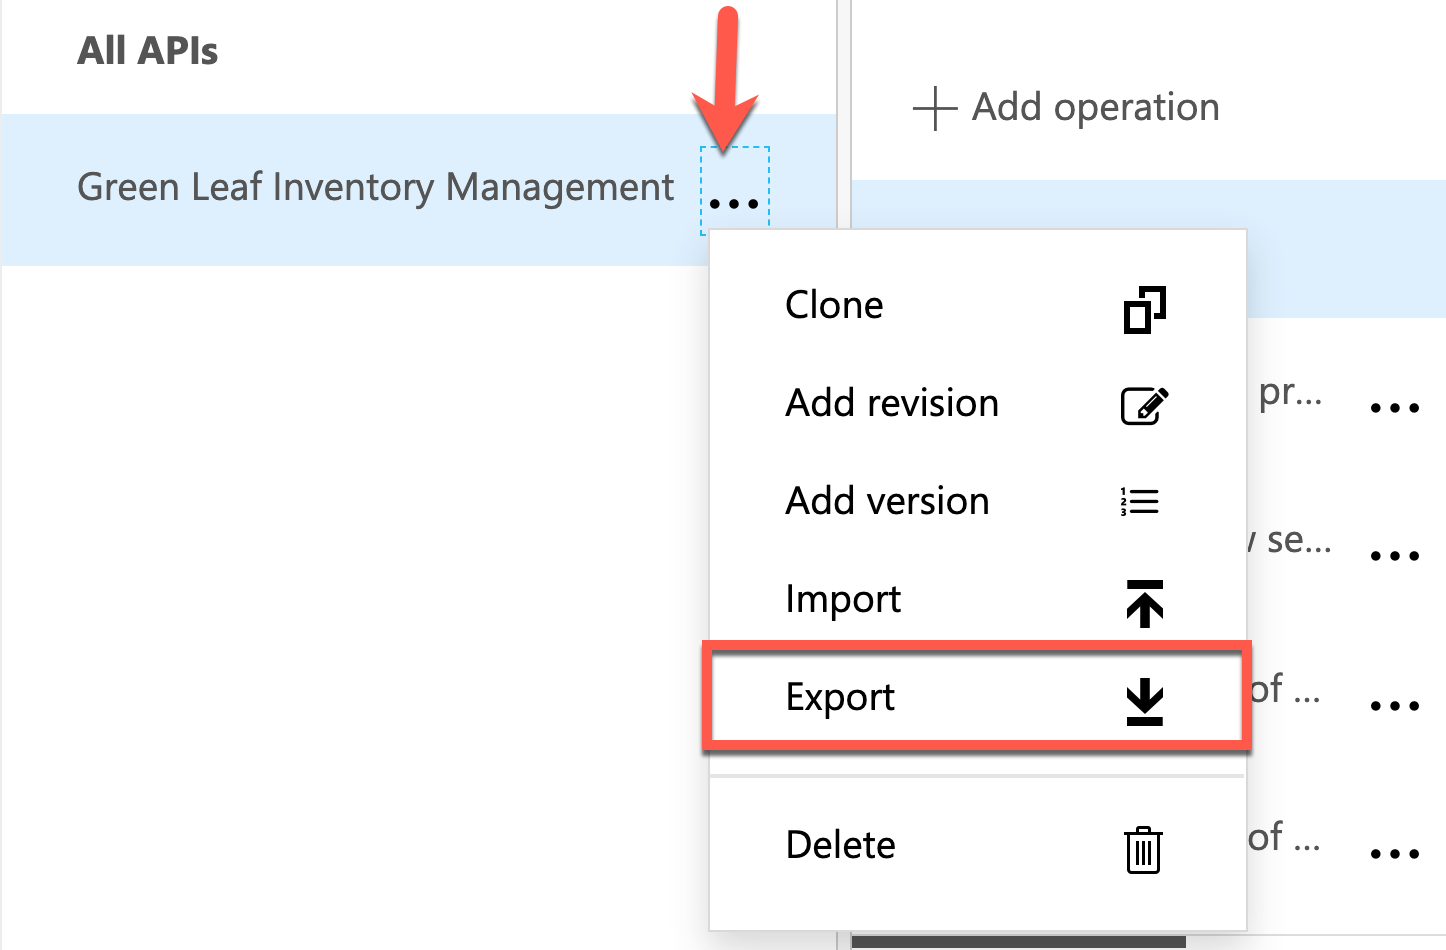
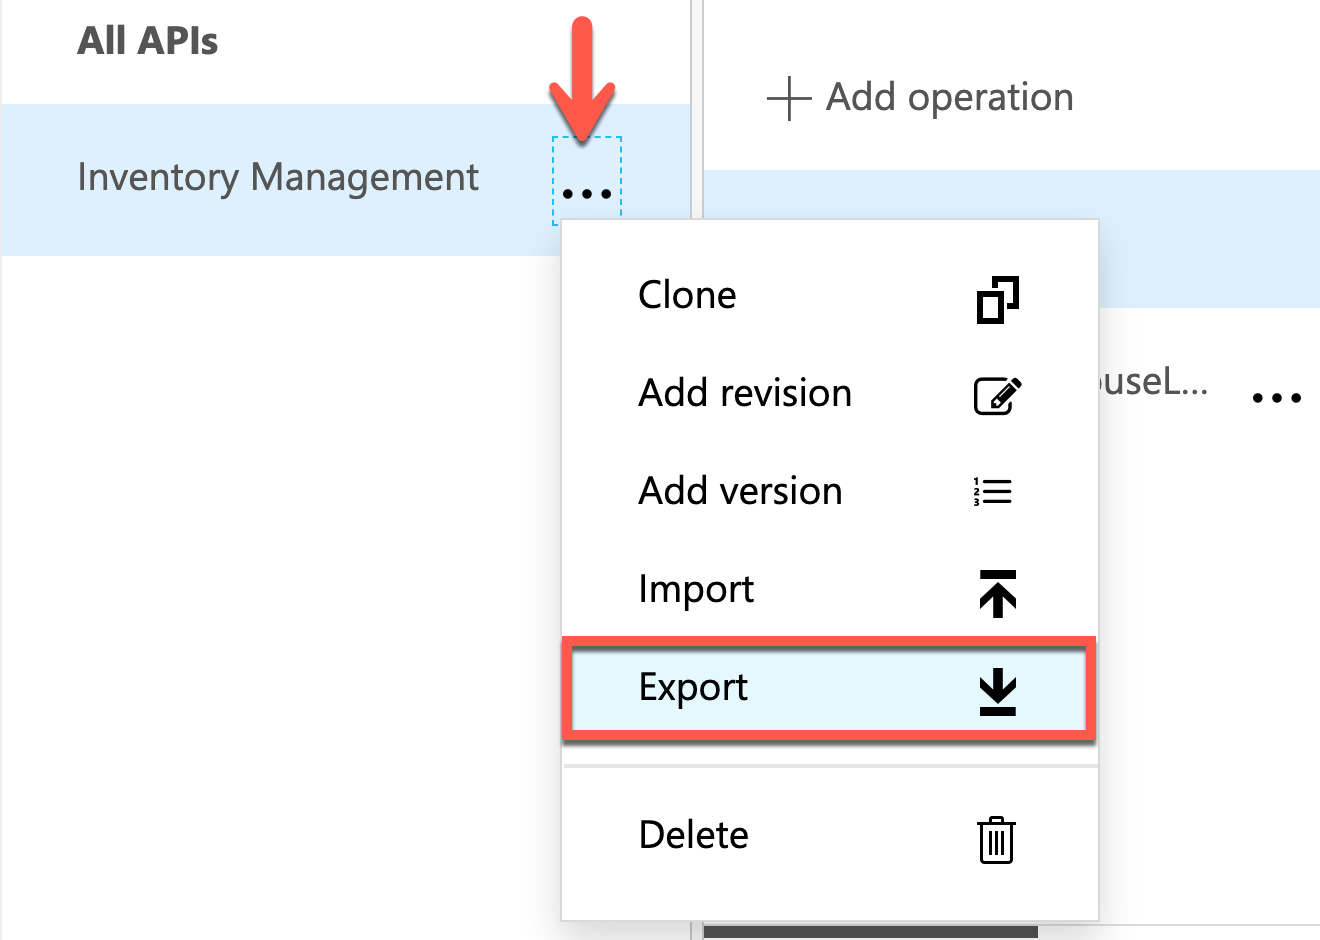
Fix missing link and images to align with the fictitious company

diff --git a/learn-bizapps-pr/powerapps/discover-web-apis-power-apps/includes/03-create-custom-connector-with-api-management.md b/learn-bizapps-pr/powerapps/discover-web-apis-power-apps/includes/03-create-custom-connector-with-api-management.md
@@ -7,7 +7,7 @@ The web APIs are served through [Azure API Management][az apim], which has the a
 > [!NOTE]
 > If you want to use Azure API Management and Power Apps throughout the exercises in this module you will need to follow a couple of steps.
 > 
-> The first is to download the web API files from GitHub and provision and deploy them to API Management using the instructions included in the README file.
+> The first is to [download the web API files from GitHub][artifacts], unzip the archive, and provision and deploy them to API Management using the instructions included in the README file.
 > 
 > The second is Power Apps requires either a Microsoft 365 license or a free trial. Learn more about your licensing options. [Microsoft products include Microsoft Power Apps and Power Automate][pa pricing].
 
